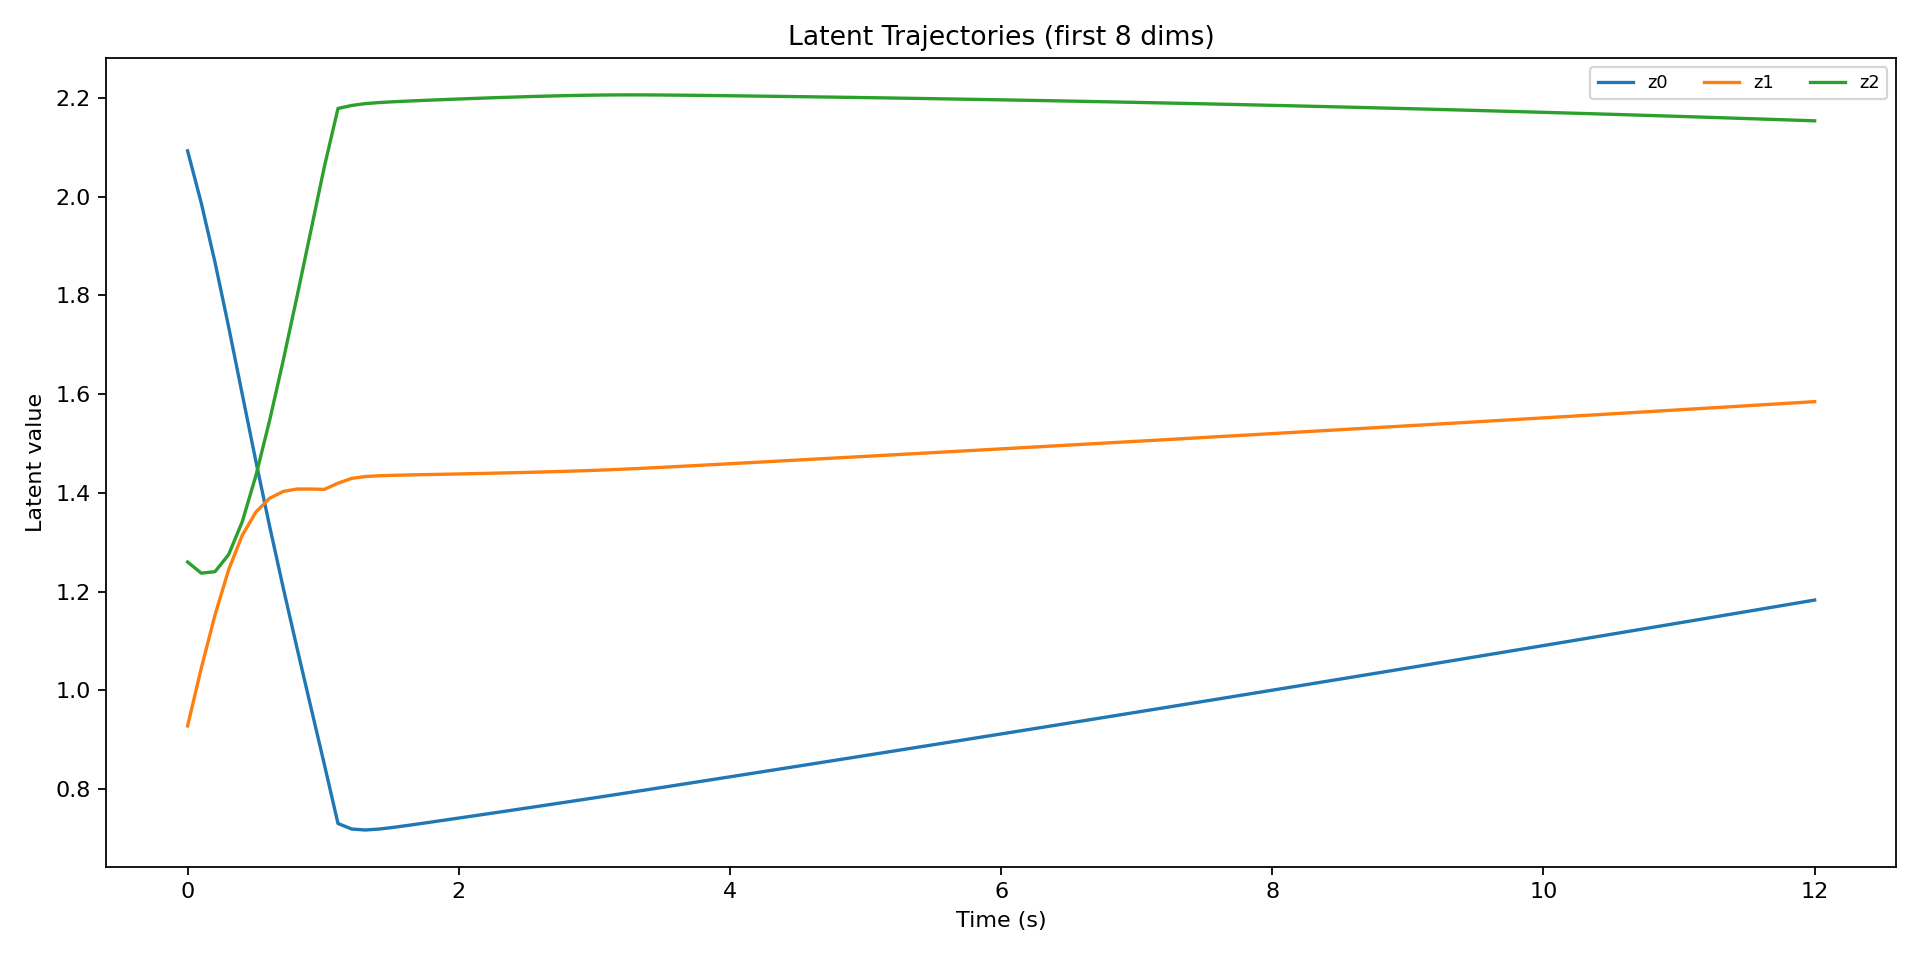
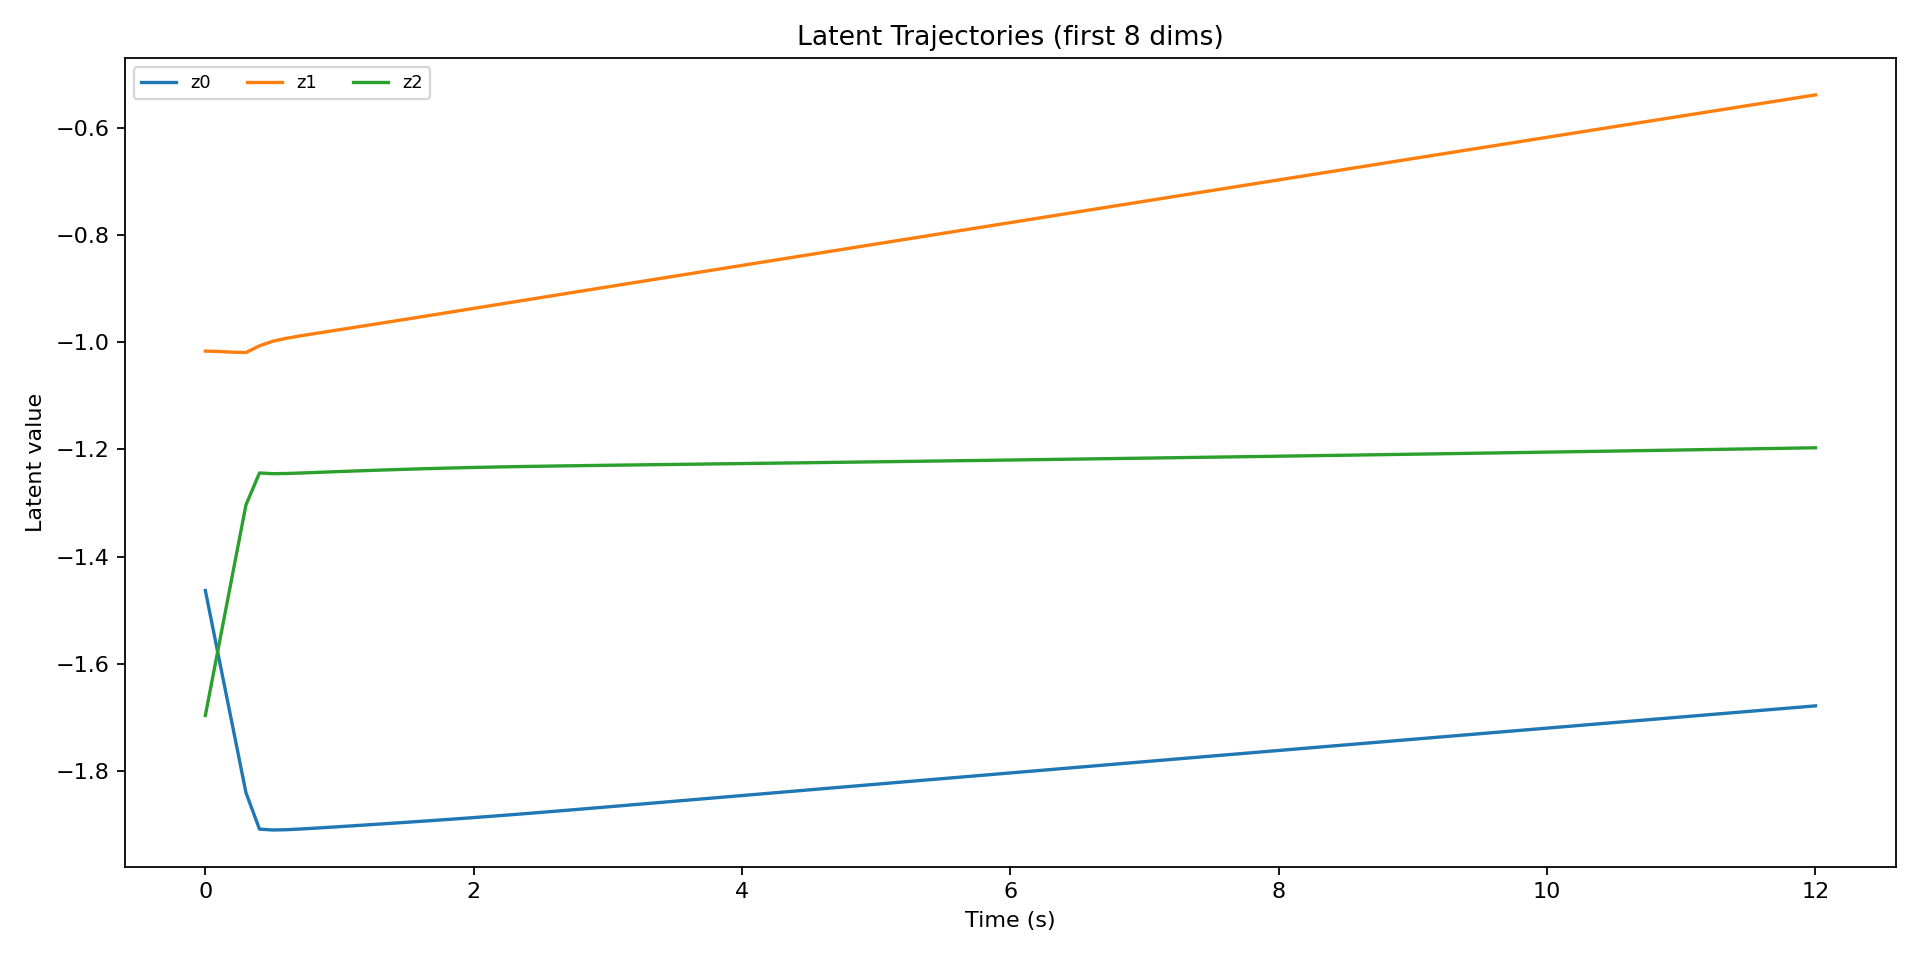
code visualizations on 2d simulated complete

diff --git a/src/data_visualization/analyze_model.py b/src/data_visualization/analyze_model.py
@@ -6,6 +6,7 @@ import sys
 import numpy as np
 import torch
 import matplotlib.pyplot as plt
+import joblib
 
 # 3D + animation + sklearn
 from mpl_toolkits.mplot3d import Axes3D  # noqa: F401 (needed for 3D)
@@ -16,7 +17,6 @@ from random import sample
 
 
 # ---------- Path setup ----------
-import os, sys
 
 # This file now lives in: Neural_VAE_ODE/src/data_visualization/
 VIS_DIR = os.path.dirname(os.path.abspath(__file__))      # .../src/data_visualization
@@ -66,8 +66,30 @@ model = ODEVAE(n_neurons=meta["N"], latent_dim=latent_dim).to(device)
 model.load_state_dict(checkpoint["state_dict"])
 model.eval()
 
-# Load data & build trial sequences consistent with training
+# --------- Load data & apply the same PCA as training ---------
 npz = np.load(PATHS["data"])
+
+roi_full = npz["roi"]
+if roi_full.shape[0] < roi_full.shape[1]:
+    roi_full = roi_full.T  # [T, N]
+
+# Try to load the PCA used during training
+pca_path = os.path.join(SRC_DIR, "pt_files", "trained_pca.pkl")
+if os.path.exists(pca_path):
+    print(f"[info] Loading trained PCA from {pca_path}")
+    pca = joblib.load(pca_path)
+    roi_full = pca.transform(roi_full)
+else:
+    print("[warn] No trained PCA found; fitting a new one.")
+    pca = PCA(n_components=model.enc.net[0].in_features, svd_solver="full")
+    roi_full = pca.fit_transform(roi_full)
+
+# Replace ROI in npz-like structure
+npz_mod = dict(npz)
+npz_mod["roi"] = roi_full
+npz = npz_mod
+
+# Build sequences consistent with training
 X, tvec_np, _ = make_sequences(
     npz,
     trial_len_s=args_loaded["trial_len_s"],
@@ -75,6 +97,7 @@ X, tvec_np, _ = make_sequences(
     drop_first_trials=args_loaded["drop_first_trials"],
     min_frames=10
 )
+
 # Use last 10 sequences as a quick "validation-like" slice
 valX = X[-10:] if X.shape[0] > 10 else X
 
@@ -88,6 +111,9 @@ def run_one_trial(xb_np_raw):
 
     # --- Optional PCA stored in meta ---
     pca_model = meta.get("pca_model", None)
+
+    assert roi_full.shape[1] == model.enc.net[0].in_features, \
+    f"Feature mismatch: data has {roi_full.shape[1]}, model expects {model.enc.net[0].in_features}"
 
     # 1 Z-score using stored training stats
     # Handle shape mismatch automatically
@@ -120,7 +146,7 @@ def run_one_trial(xb_np_raw):
 
 # 1) Raw neural activity across session (random 5 neurons)
 # --- Improved raw neural data visualization ---
-roi_full = npz["roi"].T  # [T, N]
+roi_full = npz["roi"]  # already [T, N] after PCA transform
 time_full = npz["Time"]
 neurons = np.random.choice(roi_full.shape[1], size=min(5, roi_full.shape[1]), replace=False)
 

diff --git a/src/neural_ode_vae.py b/src/neural_ode_vae.py
@@ -18,6 +18,7 @@ from sklearn.manifold import MDS
 import matplotlib.pyplot as plt
 import json
 import hashlib
+import joblib
 
 # Utility: convert NumPy/tensor types into JSON-friendly Python types
 def to_jsonable(obj):
@@ -385,7 +386,7 @@ def train(args):
     pca = PCA(n_components=0.95, svd_solver="full")
     roi_pca = pca.fit_transform(roi)
     print(f"PCA reduced {roi.shape[1]} → {roi_pca.shape[1]} dims ({pca.explained_variance_ratio_.sum():.2%} variance)")
-
+    joblib.dump(pca, os.path.join(PATHS["out_dir"], "trained_pca.pkl"))
     # Replace ROI in npz-like structure
     npz_mod = dict(npz)
     npz_mod["roi"] = roi_pca

diff --git a/README.md b/README.md
@@ -5,6 +5,9 @@
 ## Current Challenges:
 Moving the data from the simulated data and scaling, also re-running data visualizations on the new model output. 
 ## Most Recent Updates:
+October 31st, 1:01pm:
+- Updated storing of meta to get the correct data for the data visualization script. 
+- Completed run of ```analyze_model.py``` with the 2D simulated data. 
 
 October 30th, 4:41pm:
 - Added logvar clamping to prevent extreme variance from inflating the reconstruction term.
